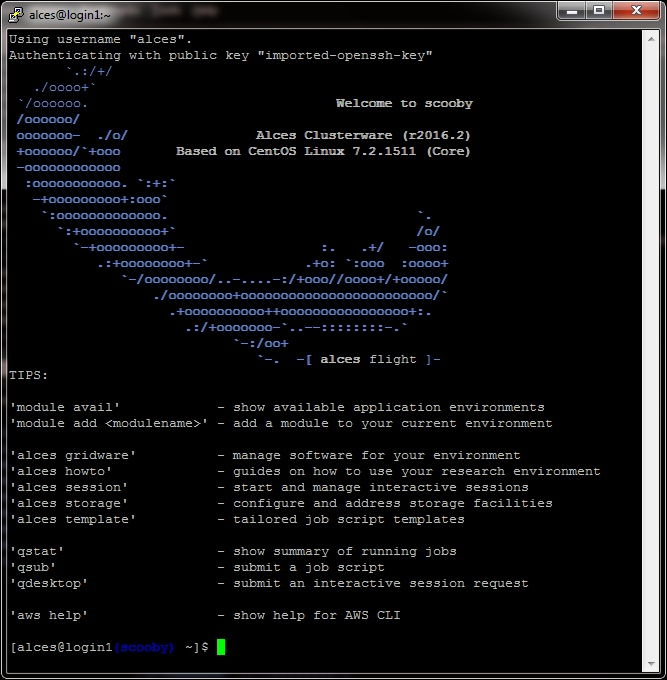
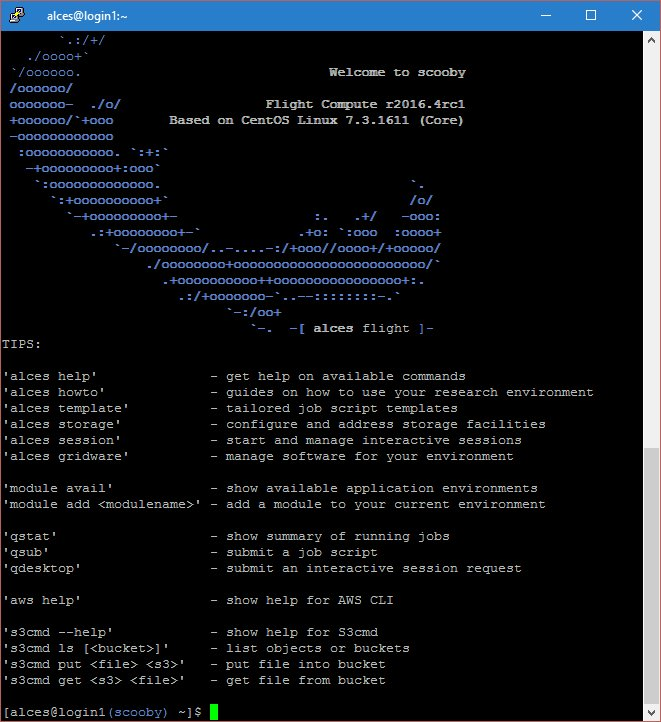
Updated screenshots for 2016.4

Changed region(s): [[0.0, 0.0, 1.0, 1.0]]

diff --git a/docs/source/launch-aws/launching_on_aws.rst b/docs/source/launch-aws/launching_on_aws.rst
@@ -3,7 +3,7 @@
 Launching on AWS
 ################
 
-Alces Flight Compute can be launched on the Amazon Web Services (AWS) public cloud platform to give you instant access to your own, private HPC cluster from anywhere in the world. You can choose what resources your cluster will start with (e.g. number of nodes, amount of memory, etc.), and for how long the cluster will run. 
+Alces Flight Compute Solo can be launched on the Amazon Web Services (AWS) public cloud platform to give you instant access to your own, private HPC cluster from anywhere in the world. You can choose what resources your cluster will start with (e.g. number of nodes, amount of memory, etc.), and for how long the cluster will run. 
 
 
 Prerequisites
@@ -30,7 +30,7 @@ Creating your Cluster
 Method of Launching
 -------------------
 
-The simplest method of launching a cluster is by using the AWS Marketplace - clusters launch using an AWS CloudFormation template which asks the users a number of simple questions in order to configure their cluster environment. This method is documented on this page, and is the fastest way to launch your own, personal HPC cluster environment. 
+The simplest method of launching a cluster is by using the AWS Marketplace - clusters launch using an AWS CloudFormation template which asks the user a number of simple questions in order to configure their cluster environment. This method is documented on this page, and is the fastest way to launch your own, personal HPC cluster environment. 
 
 Advanced users may also wish to launch a cluster one instance at a time, or deploy a single login node to be used interactively. Follow this guide for information on how to manually configure a cluster by launching individual instances - :ref:`manual_launch`.
 
@@ -59,7 +59,7 @@ Finding Alces Flight Compute on AWS
 
 Sign-in to your AWS account, and navigate to the `AWS Marketplace <https://aws.amazon.com/marketplace>`_. Search for **Alces Flight** in the search box provided to find the Flight Compute product. 
 
-.. image:: marketplace_2016.2.jpg
+.. image:: marketplace_2016.4.jpg
     :alt: Alces Flight in AWS Marketplace
 
 Click on the **Continue** button to view details on how to launch. 
@@ -70,7 +70,7 @@ Launching a Personal HPC cluster from AWS Marketplace
 
 Follow these instructions to launch your cluster:
 
- - After clicking the **Continue** button from the main product page, select the **Custom Launch** tab in your browser. 
+ - After clicking the **Continue** button from the main product page, select the **Manual Launch** tab in your browser. 
  - Scroll down the page and select your local AWS region in the **Select a Region** section
  - Choose **Personal HPC compute cluster** from the *Deployment Options* section
  - Under the *Launch* section, click on the **Launch with CloudFormation Console** button to start deploying your cluster. 
@@ -207,6 +207,15 @@ The first time you connect to your cluster, you will be prompted to accept a new
     :alt: Logging in to the cluster
     
 
+
+Accessing your cluster web interface
+====================================
+
+Your cloud service provider will report a web-access URL that points to the management interface for your cluster once it is launched. This interface collects together all support and documentation services under a single page, helping users to access their cluster and request assistance if required. 
+
+.. image:: alces_solo_UI.jpg
+    :alt: Alces Flight Solo web interface
+    
 
 Terminating the cluster
 =======================
